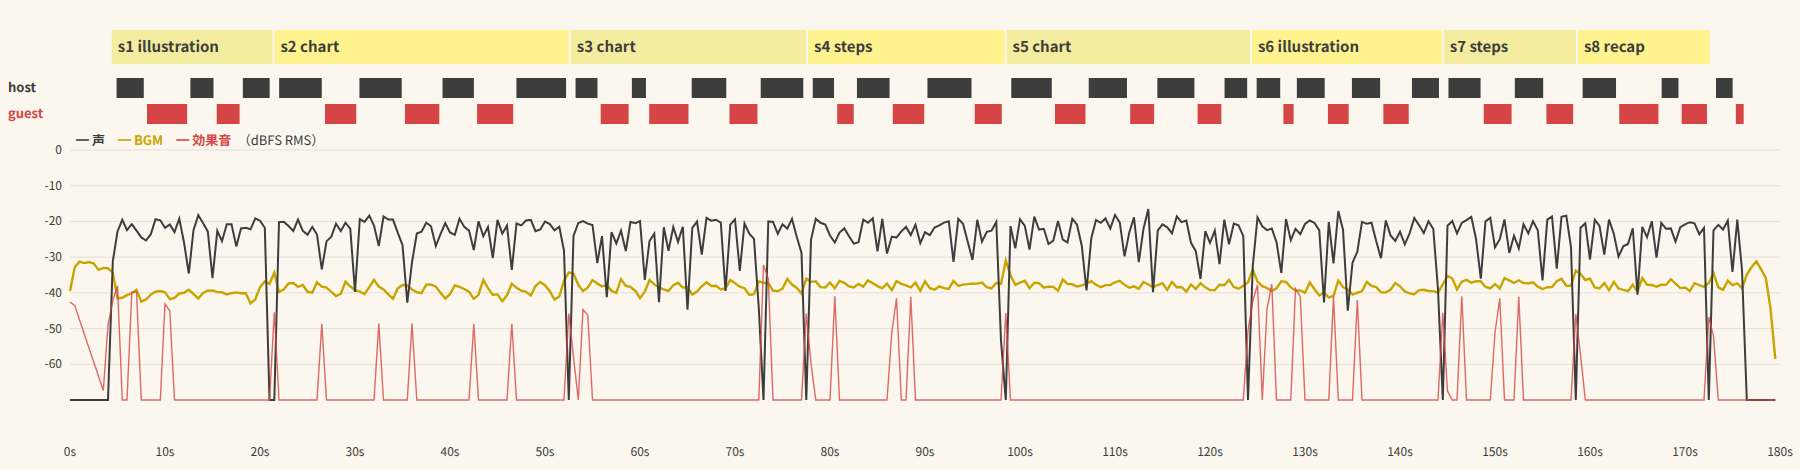
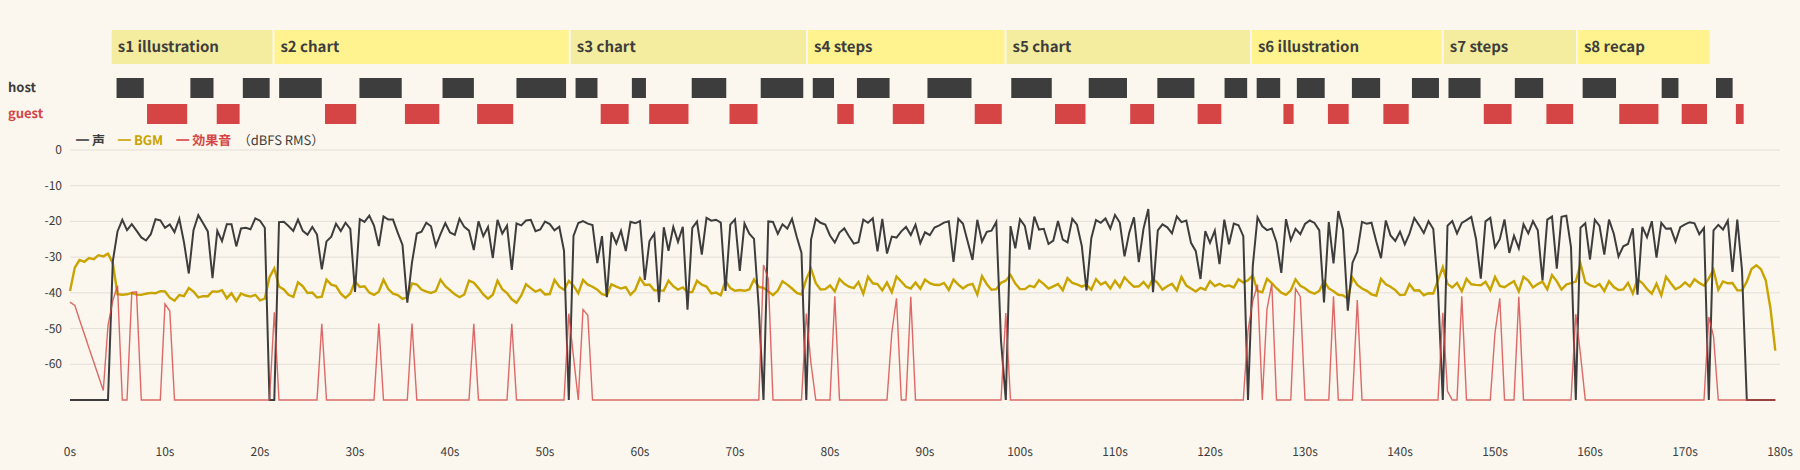
auto_movie: finalize episode 001, style-aware music, publishing extras, UI cancel fix
- final render of 今日のライフハック No.001 (QA: all pass; 180.000 s, -16 LUFS)
- captions.srt / youtube-description.txt / web encode written next to the video
- style catalog's tempo and energy settings now drive the composer
- UI: cancelling a job stops the whole process group (claude/ffmpeg children)
- steps label sizing and review-curve stamp/legend placement

Changed region(s): [[0.0622, 0.566, 0.9956, 0.6553], [0.0311, 0.5362, 0.0622, 0.566]]

diff --git a/auto_movie/README.md b/auto_movie/README.md
@@ -110,6 +110,25 @@ auto_movie/
 - 画面が長く止まっていないか、各シーンで最初の絵・データが出るまでの時間、シーンの長さ
 - HyperFrames 自身の検査（lint / ランタイム / レイアウトの重なり / コントラスト）
 - `readings.md`：VOICEVOX が実際に読んだ「かな」（誤読の確認用）
+- 公開用の付属物（字幕 `.srt`、チャプターとクレジットの概要欄テキスト、共有用の軽量版）も `--out` の隣に書き出されます
+
+## 最初のエピソード：今日のライフハック No.001「忘れない復習のタイミング」
+
+シード（`examples/lifehack-001/seed.json`）は、テーマ「勉強したことを忘れにくくする復習のタイミング（忘却曲線を味方にする）」・3 分・二人ポッドキャスト・参考資料 1 本（`sources/forgetting-curve.md`：エビングハウス、分散学習、テスト効果の要点と、断定できない点の留保）です。
+
+```bash
+node bin/auto-movie.mjs make --seed examples/lifehack-001/seed.json --run lifehack-001-final --quality delivery --out output/lifehack-001.mp4
+```
+
+| 出力 | 内容 |
+|---|---|
+| `output/lifehack-001.mp4` | マスター（1920×1080 / 30fps / H.264 + AAC 48kHz / **180.000 秒** / 約 135 MB） |
+| `output/lifehack-001.web.mp4` | 共有用の軽量版（約 38 MB） |
+| `output/lifehack-001/` | `captions.srt`（字幕）・`youtube-description.txt`（チャプターとクレジット）・`bgm.m4a`（BGM 単体）・`bgm-score.mid`（譜面）・`qa-report.md`・`contact-sheet.png`・`audio-overview.png`・`readings.md`・`script.json`・`plan.json` |
+
+実績：企画 → 台本（検証で 1 回差し戻し）→ 挿絵 2 枚 → 声 49 行 → 作曲・ミックス → 書き出し → QA を **約 8.5 分**で通し（2 回目以降はキャッシュで約 2 分）。LLM の費用は約 **$1.6**（企画 $0.11、台本 $0.50、挿絵 $0.95。`claude -p` の API 換算）。
+
+QA は全 19 項目が PASS：長さ 180.000 秒（差 0）、声の重なり 0（最小の間隔 0.34 秒）、スケジュール外の声 0 秒、ラウドネス -16.0 LUFS・ピーク -1.4 dBFS、発話中の声と BGM の差 17.5 dB、字幕が発話を 100% 覆う、6 秒以上の静止なし、HyperFrames の検査（レイアウト 0 件・コントラスト 59/59 合格）。完成した MP4 は Chromium で実際に再生し（3 倍速で通し）、デコードされた音声の音量が、台本の「声の区間」と「間」でちょうど分かれること（中央値 -20.9 dB と -36.6 dB）も確かめています。
 
 ## クレジットとライセンス
 

diff --git a/auto_movie/output/lifehack-001/qa-report.md b/auto_movie/output/lifehack-001/qa-report.md
@@ -9,11 +9,11 @@
 | ✅ | 映像と音声の長さの一致 | 映像 180 秒 / 音声 180 秒 |
 | ✅ | 声の重なり（台本上のスケジュール） | 49 行、最小の間隔 0.34 秒、重なり 0 件 |
 | ✅ | 掛け合いのテンポ | 同じ人が続けて話す最長 2 行、発話時間 149.7 秒（全体の 83%） |
-| ✅ | ラウドネス（目標 -16 LUFS） | -16 LUFS、LRA 3.7 LU、トゥルーピーク -1.5 dBFS |
-| ✅ | 音の割れ（ピーク） | 最大 -1.5 dBFS |
+| ✅ | ラウドネス（目標 -16 LUFS） | -16 LUFS、LRA 3.7 LU、トゥルーピーク -1.4 dBFS |
+| ✅ | 音の割れ（ピーク） | 最大 -1.4 dBFS |
 | ✅ | 無音の区間 | 1 秒以上の無音なし |
 | ✅ | 予定外の声（スケジュール外の発話） | 0 秒 |
-| ✅ | 声とBGMの音量差（発話中） | 声 -20.9 dB、BGM -38.3 dB、差 17.4 dB（14 dB 以上で声が埋もれない） |
+| ✅ | 声とBGMの音量差（発話中） | 声 -20.9 dB、BGM -38.4 dB、差 17.5 dB（14 dB 以上で声が埋もれない） |
 | ✅ | 声と効果音の音量差（発話中） | 効果音 -52.6 dB、差 31.7 dB |
 | ✅ | 字幕が発話を覆っているか | 字幕のない発話時間 0 秒 / ページ数 49 |
 | ✅ | 字幕1枚の文字数（40字以内） | すべて収まっている |
